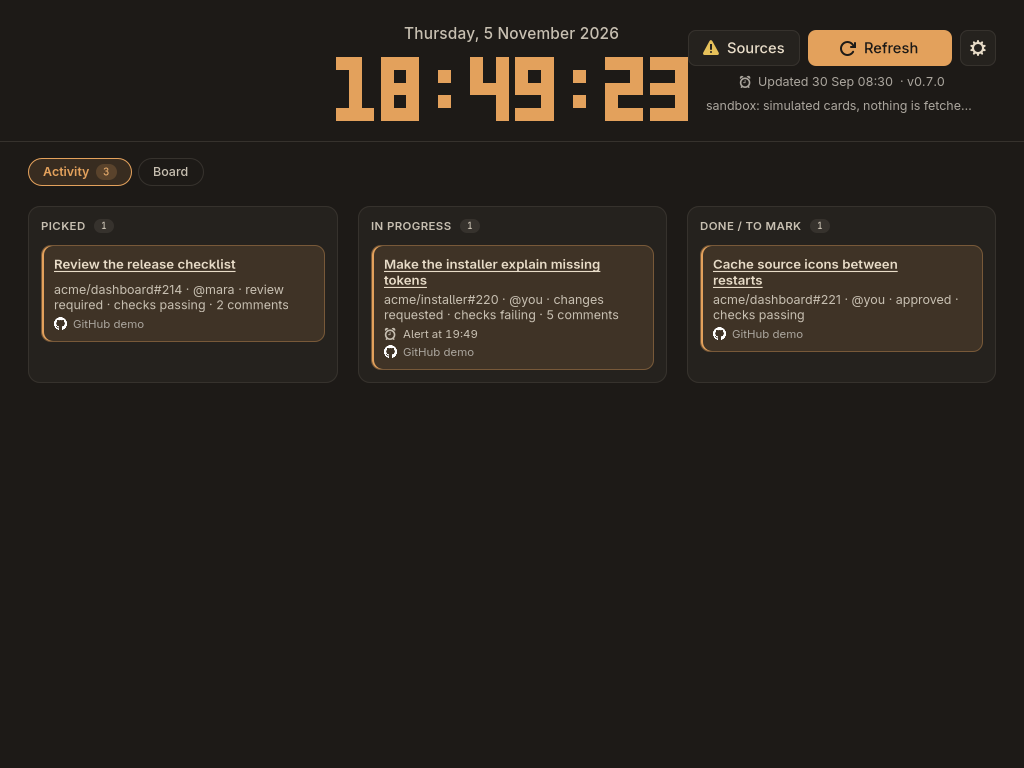
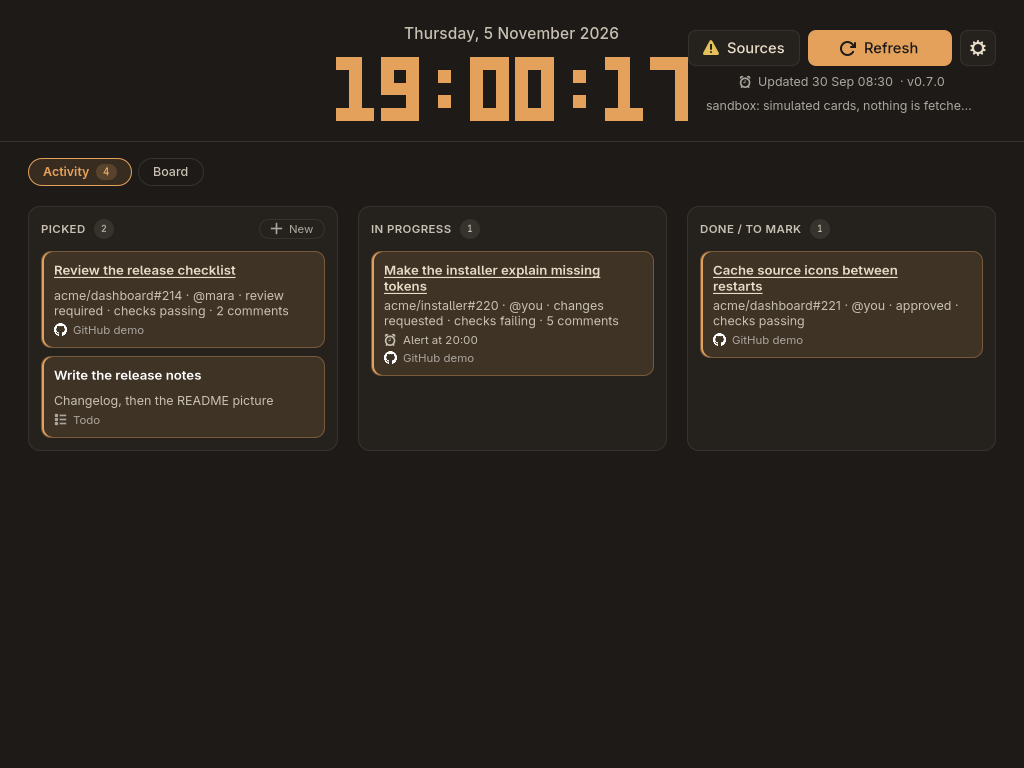
docs: todos in the Activity
The README, operations guide, DESIGN.md and changelog say where todos
live now and where New is. The pictures are taken again: the Board
without the Todo group, the Activity with a todo in Picked.

diff --git a/docs/operations.md b/docs/operations.md
@@ -131,7 +131,7 @@ It shows events that are not over yet, starting within 30 days, at most 25, soon
 
 ## The Window
 
-`tasks-pending` opens the window. It reads the dashboard from the daemon at `http://127.0.0.1:61000` (`--daemon` for another address); when nothing answers there, it starts the sources itself on a loopback port of its own (`--no-daemon` does that on purpose) and the line under the controls says so. `tasks-pending sandbox` opens it over simulated cards and a sample weather, with nothing fetched: every kind of source on two boards, one source degraded on purpose, three cards already along the stages of the Activity and two todos written down; `--screenshot <file>` pictures it and closes, and `--scene` picks what the picture shows (`activity`, the default, `light`, `omarchy` (a made-up Omarchy theme), `board`, `sources`, `settings`, `snoozed` or `todo`).
+`tasks-pending` opens the window. It reads the dashboard from the daemon at `http://127.0.0.1:61000` (`--daemon` for another address); when nothing answers there, it starts the sources itself on a loopback port of its own (`--no-daemon` does that on purpose) and the line under the controls says so. `tasks-pending sandbox` opens it over simulated cards and a sample weather, with nothing fetched: every kind of source on two boards, one source degraded on purpose, three cards already along the stages of the Activity and two todos written down in Picked; `--screenshot <file>` pictures it and closes, and `--scene` picks what the picture shows (`activity`, the default, `light`, `omarchy` (a made-up Omarchy theme), `board`, `sources`, `settings`, `snoozed` or `todo`).
 
 A big clock sits at the top: the date, then the local time as `HH:MM:SS` in block digits (the "bricks" font of clock-tui), redrawn each second on its own. Next to it are the **Sources**, **Refresh** and settings (gear) buttons, with the time of the last data fetch and the running version (e.g. `v0.6.0`) below them, then `· N snoozed` while cards are snoozed and `· vX.Y.Z available` when the daemon has seen a newer release. There is no header bar: the window is the dashboard.
 
@@ -147,7 +147,7 @@ On the Board, the menu's **Snooze** entry offers **1 hour**, **Tomorrow** (the n
 
 **Alert me about**, in the same menu, rings a desktop notification about the card **in 15 min**, **30 min**, **1 hour** or **3 hours**. Until then the card says `Alert at HH:MM`, **Cancel the alert** calls it off, and choosing another time replaces it. The window looks at its alerts every 30 seconds by the wall clock, so one the machine slept through rings on waking. The notification carries the card's title, then its source and the time the alert was set for; it is sent through the application id (`io.github.brunoomariano.TasksPending`) to the desktop's notification daemon, and clicking it brings the window up. Alerts last as long as the window: they are written nowhere, and closing the window forgets them.
 
-The Board's first group is **Todo**, for things that come from no source. **New** in its header opens a dialog for a title and optional details, and the card lands in a stack called **This session**; the group shows whatever the board filter. A todo's menu has **Edit** and **Delete** in place of Snooze, and otherwise the same entries, so a todo can be sent to Activity, moved between the stages and given an alert. Todos are not saved anywhere, which the group's `not saved` badge and the dialog both say: closing the window forgets them.
+Todos, for things that come from no source, live in the Activity, not on the Board. **New** at the end of the Picked column's header opens a dialog for a title and optional details, and the todo lands in Picked, after the marked cards, with `Todo` where a card names its source. Its menu moves it between the stages and sets an alert like any card's, and has **Edit** and **Delete** where a card has Send to or Remove from Activity and Snooze: a todo has nowhere else to be, so Delete is how it goes. Todos are not saved anywhere, which the dialog says: closing the window forgets them.
 
 A small dot before a card's title means the item changed since you last looked, and the same dot after a stack's count means the stack holds such a card (also when it is collapsed or the card is behind "Show more"). There is no count and no label. "Looking" is doing something in the window: a click, a key, scrolling. Opening the window counts; the pointer merely crossing it, or the window taking focus under it, does not, so the dots are not cleared by accident. When you come back after 10 minutes or more without activity, the dots show what changed since your previous activity; cards that change while you keep using the window get a dot too, and all of them clear the next time you return. A change counts from the moment the dashboard fetched it: an item that changed just before you left, but that its source only refreshed after, is flagged on your return, because it was never on screen. The daemon keeps these times in `$XDG_STATE_HOME/tasks-pending/looks.json`. Activity is reported at most once a minute.
 

diff --git a/crates/pending-app/DESIGN.md b/crates/pending-app/DESIGN.md
@@ -123,7 +123,7 @@ The clock is not text: it is the "bricks" font drawn as blocks (6 wide, 5 tall, 
 
 ## Layout
 
-Hero: a centre box, weather at the start (hidden under 1440px), the clock in a clamp in the middle, the controls column at the end; 24px top, 28px sides, 20px bottom, a 1px border below. Under it, a row of two tab pills, Activity and Board; Activity carries a count pill when it holds cards. Activity: three stage columns of equal width (Picked, In Progress, Done / to mark), at least 240px, 20px apart, each a group-like box with an upper-case title and a count, cards 8px apart; when nothing is picked, one line of Text 3 with a link to the Board. Board: a flow box of groups at least 290px wide, 20px apart, 28px side gutters, wrapping onto more rows when the window is narrow; a group keeps its natural height; the Todo group comes first. Inside a group: a header row (logo in a tile, name, board badge, empty toggle at the end), then stacks 14px apart with a 1px rule between them; cards 8px apart.
+Hero: a centre box, weather at the start (hidden under 1440px), the clock in a clamp in the middle, the controls column at the end; 24px top, 28px sides, 20px bottom, a 1px border below. Under it, a row of two tab pills, Activity and Board; Activity carries a count pill when it holds cards. Activity: three stage columns of equal width (Picked, In Progress, Done / to mark), at least 240px, 20px apart, each a group-like box with an upper-case title and a count (Picked also has a New control at the end, for a todo), cards 8px apart, the todos after the marked cards; when nothing is picked, one line of Text 3 with a link to the Board. Board: a flow box of groups at least 290px wide, 20px apart, 28px side gutters, wrapping onto more rows when the window is narrow; a group keeps its natural height. Inside a group: a header row (logo in a tile, name, board badge, empty toggle at the end), then stacks 14px apart with a 1px rule between them; cards 8px apart.
 
 ## Elevation & Depth
 
@@ -135,10 +135,10 @@ Soft corners: 12px for groups and stage columns, dialog rows at 8px, cards at 10
 
 ## Components
 
-- Card: card surface, 1px border, 10px radius, 10/12px padding; title (a link when the item has one, same colour, accent on hover), two lines of body in Text 2, and one three-dot button at the end that appears on hover and stays while its menu is open. The menu holds every action: the stage moves (on Activity), send to or remove from Activity, Snooze (on the Board), Alert me about, Cancel the alert, and Edit and Delete for a todo. Picked: accent tint and the inset accent line. Changed: a dot before the title. Alert: a caption line in Text 2 with an alarm icon and the time.
+- Card: card surface, 1px border, 10px radius, 10/12px padding; title (a link when the item has one, same colour, accent on hover), two lines of body in Text 2, and one three-dot button at the end that appears on hover and stays while its menu is open. The menu holds every action: the stage moves (on Activity), send to or remove from Activity, Snooze (on the Board), Alert me about, Cancel the alert, and for a todo Edit and Delete in place of the Activity entry and Snooze. Picked: accent tint and the inset accent line. Changed: a dot before the title. Alert: a caption line in Text 2 with an alarm icon and the time.
 - Tabs: pill buttons on the page with a 1px border; the open one is filled with the accent tint and outlined with the accent. Activity carries its count in a pill.
 - Stage: a group-like box with the stack label style for its name and a count pill; an empty one says so in Text 3.
-- Todo group: the group with a check icon in its tile, a "not saved" badge and a New control; its dialog is two entries, the note about not saving in Text 3, Cancel and the one primary button.
+- Todo: a card in the Activity named after no source ("Todo" under it, no logo), written down with the New control at the end of Picked's header; its dialog is two entries, the note about not saving in Text 3, Cancel and the one primary button.
 - Stack header: a flat button with a chevron (rotated when collapsed), the upper-case name, a count pill, and the dot when a card inside changed.
 - Group: group surface, 1px border, 12px radius; the logo sits in a 28px tile on the card surface.
 - Controls: 34px buttons with a 1px border on the group surface; Refresh is the one filled with accent, and as wide as its longest label ("Refreshing…") whatever it says, its icon and label centred, so nothing beside it moves; the gear carries a 7px accent dot while a filter is on.

diff --git a/README.md b/README.md
@@ -16,13 +16,13 @@ Every picture here comes from `tasks-pending sandbox`, which shows simulated car
 - **One menu per card.** Every action sits behind a three-dot button on the card: send to Activity, move between stages, snooze, alert, and for a todo edit and delete.
 - **Snooze.** Hide a card for an hour, until tomorrow, until next week, or until it changes. It always comes back when the item changes, and nothing is written to the provider.
 - **Alerts.** Ask to be alerted about a card in 15 minutes, 30 minutes, an hour or three hours: when the time comes, a desktop notification names it, and clicking it brings the window up.
-- **Todos.** Write down something that comes from no source: it is a card like the others, in a Todo group on the Board, and it lasts only while the window is open.
+- **Todos.** Write down something that comes from no source: **New** in the Picked column of the Activity puts it there, it moves through the stages like the other cards, and it lasts only while the window is open.
 - **What changed.** A small dot marks the cards that changed since you last looked.
 - **Omarchy's theme.** The window has its own palette, dark unless the system asks for light. On Omarchy, Settings can switch it to the theme Omarchy applied, and it changes with it.
 - **Local only.** The daemon listens on this machine, reads tokens from the environment, and keeps your marks and snoozes in a state folder. The window reads it over loopback; it reaches the network itself only for the sources' logos, and for the providers when no daemon is running and it runs the sources in its own process.
 
 <p align="center">
-  <img src="docs/assets/tasks-pending-board.png" alt="The Board tab: the Todo group first, then one group of stacks per source, with the picked cards highlighted" width="49%">
+  <img src="docs/assets/tasks-pending-board.png" alt="The Board tab: one group of stacks per source, with the picked cards highlighted" width="49%">
   <img src="docs/assets/tasks-pending-todo.png" alt="The New todo dialog: a title, optional details, and the note that todos are kept only while the window is open" width="49%">
 </p>
 

diff --git a/CHANGELOG.md b/CHANGELOG.md
@@ -9,6 +9,7 @@
 ### Changed
 
 - The Activity stage Doing is now **In Progress**. Cards moved there in 0.7.0 stay there.
+- Todos live in the **Activity**: **New** at the end of the Picked column writes one down there, and its menu moves it along the stages. The Todo group is gone from the Board, and a todo's menu no longer has Send to or Remove from Activity; Delete is how it goes.
 - The Refresh button keeps one width whatever it says, so nothing beside it moves while it refreshes or waits; a refused refresh now reads "Wait 7s".
 - The window's own palette reads at 4.5:1 too, as the Omarchy one does: on dark, Text 3 and Text 2 are lighter and the primary button's text is dark on the accent; on light, the texts, OK, Warning, Danger and the accent as text are deeper. The count on the open tab is made to read on its tint, in every palette.
 
